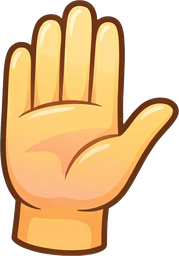
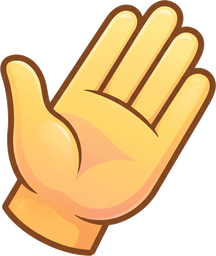
New clapping hand art (overlapping clap), balloon pops, balloon pop animation
Claude-Session: https://claude.ai/code/session_01LfmF5cxUUBcpb9MQqZTHNz

diff --git a/index.html b/index.html
@@ -12824,7 +12824,7 @@ var qrcode=function(){var t=function(t,r){var e=t,n=g[r],o=null,i=0,a=null,u=[],
     notes:     { pics: ["note-purple", "notes-blue"], move: "bob", burst: "rows", lap: 2800, size: 34, items: 9, burstN: 30, life: 5200 },
     fireflies: { pics: ["firefly"], move: "glow", burst: "linger", glow: true, mirrorRandom: true, lap: 3600, size: 26, items: 16, burstN: 32, life: 7000 },
     // Flair Pack 4
-    balloons:  { pics: ["balloon-red", "balloon-blue", "balloon-yellow"], move: "bob", burst: "flutterup", lap: 3200, size: 34, items: 9, burstN: 26, life: 6500 },
+    balloons:  { pics: ["balloon-red", "balloon-blue", "balloon-yellow"], move: "bob", burst: "flutterup", popPics: ["pop-red", "pop-blue", "pop-yellow"], lap: 3200, size: 34, items: 9, burstN: 26, life: 6500 },
     gems:      { pics: ["gem-diamond", "gem-ruby", "gem-emerald"], move: "gemspin", burst: "gemfall", lap: 3000, size: 32, items: 12, burstN: 40, life: 5000 },
     paws:      { pics: ["paw-dog", "paw-cat", "paw-bear"], move: "pulse", burst: "trail", lap: 3000, size: 38, items: 10, burstN: 27, life: 7000 },
     food:      { pics: ["pizza", "donut", "cookie"], move: "bob", burst: "fall", lap: 3000, size: 36, items: 9, burstN: 36, life: 5200 },
@@ -13025,12 +13025,21 @@ var qrcode=function(){var t=function(t,r){var e=t,n=g[r],o=null,i=0,a=null,u=[],
     if (b === "flutterup") {
       // hearts flutter up in a left-to-right cascade, and one big heart drifts down and swells toward you
       for (let k = 0; k < N; k++) {
-        const el = item(f.pics[k % f.pics.length]), s = rnd(0.6, 1.2), x = rnd(0, W - size), cas = x / W;
+        const nm = f.pics[k % f.pics.length], el = item(nm), s = rnd(0.6, 1.2), x = rnd(0, W - size), cas = x / W;
         const dl = cas * L * 0.32 + rnd(0, L * 0.08), fd = Math.max(1200, L * rnd(0.5, 0.58)), sw = rnd(14, 34), fq = rnd(0.8, 1.6), ph = rnd(0, 6.28);
+        // balloons: about one in four pops (shows a pop picture, then vanishes) when it gets near the top
+        const popName = f.popPics && k % 4 === 1 ? f.popPics[k % f.pics.length] : null, popAt = rnd(0.72, 0.84), pop = popName ? item(popName, size * 1.7) : null;
+        const pos = (p) => [x + Math.sin(p * fq * 6 + ph) * sw, H + size - ease(p) * (H + size * 2)];
         add(el, (bt) => {
           const p = (bt - dl) / fd; if (p >= 1) return false; if (p < 0) { el.style.opacity = 0; return true; }
-          const y = H + size - ease(p) * (H + size * 2), xx = x + Math.sin(p * fq * 6 + ph) * sw, rot = Math.sin(p * fq * 6 + ph) * 16, sc = s * (0.9 + 0.12 * Math.sin(bt / 260 + ph));
+          if (pop && p >= popAt) { el.style.opacity = 0; return true; }
+          const [xx, y] = pos(p), rot = Math.sin(p * fq * 6 + ph) * 16, sc = s * (0.9 + 0.12 * Math.sin(bt / 260 + ph));
           el.style.transform = tf(xx, y, rot, sc, sc); el.style.opacity = Math.min(1, p * 8) * (p > 0.85 ? (1 - p) / 0.15 : 1); return true;
+        });
+        if (pop) add(pop, (bt) => {
+          const pt = bt - dl - popAt * fd; if (pt < 0) { pop.style.opacity = 0; return true; } if (pt > 520) return false;
+          const [px, py] = pos(popAt), q = pt / 520, sc = (0.5 + 0.7 * Math.min(1, q * 2.2)) * s * 1.1;
+          pop.style.transform = tf(px - size * 0.35, py - size * 0.2, 0, sc, sc); pop.style.opacity = 1 - q * q; return true;
         });
       }
       const big = item(f.pics[0], size * 1.4), bd = Math.max(1400, L * 0.6), bl = 200;
@@ -13104,12 +13113,12 @@ var qrcode=function(){var t=function(t,r){var e=t,n=g[r],o=null,i=0,a=null,u=[],
       const pairs = Math.max(3, Math.round(N / 2)), T = 430, claps = 4, dur = T * claps + 500;
       for (let k = 0; k < pairs; k++) {
         const mx = rnd(0.12, 0.88) * W, my = rnd(0.12, 0.85) * H, w = size * rnd(1.0, 1.8), dl = k * (L * 0.09) + rnd(0, 160);
-        const a = item("clap-left", w), c = item("clap-right", w), h = w * 256 / 179;
+        const a = item("clap-left", w), c = item("clap-right", w), h = w * 256 / 216;
         let live = true;
         const hands = (p) => {
           if (p < 0) { a.style.opacity = 0; c.style.opacity = 0; return true; }
           if (p > dur) return false;
-          const u = 0.5 - 0.5 * Math.cos(Math.min(p, T * claps) / T * 6.2832 + 3.1416) , off = w * (0.64 - 0.36 * u), tilt = -10 + 16 * u;
+          const u = 0.5 - 0.5 * Math.cos(Math.min(p, T * claps) / T * 6.2832 + 3.1416) , off = w * (0.62 - 0.40 * u), tilt = -16 + 16 * u;
           const op = Math.min(1, p / 160) * fadeOut(p, dur, 400);
           a.style.transform = tf(mx - off - w / 2, my - h / 2, tilt, 1, 1); a.style.opacity = op;
           c.style.transform = tf(mx + off - w / 2, my - h / 2, -tilt, 1, 1); c.style.opacity = op; return true;
